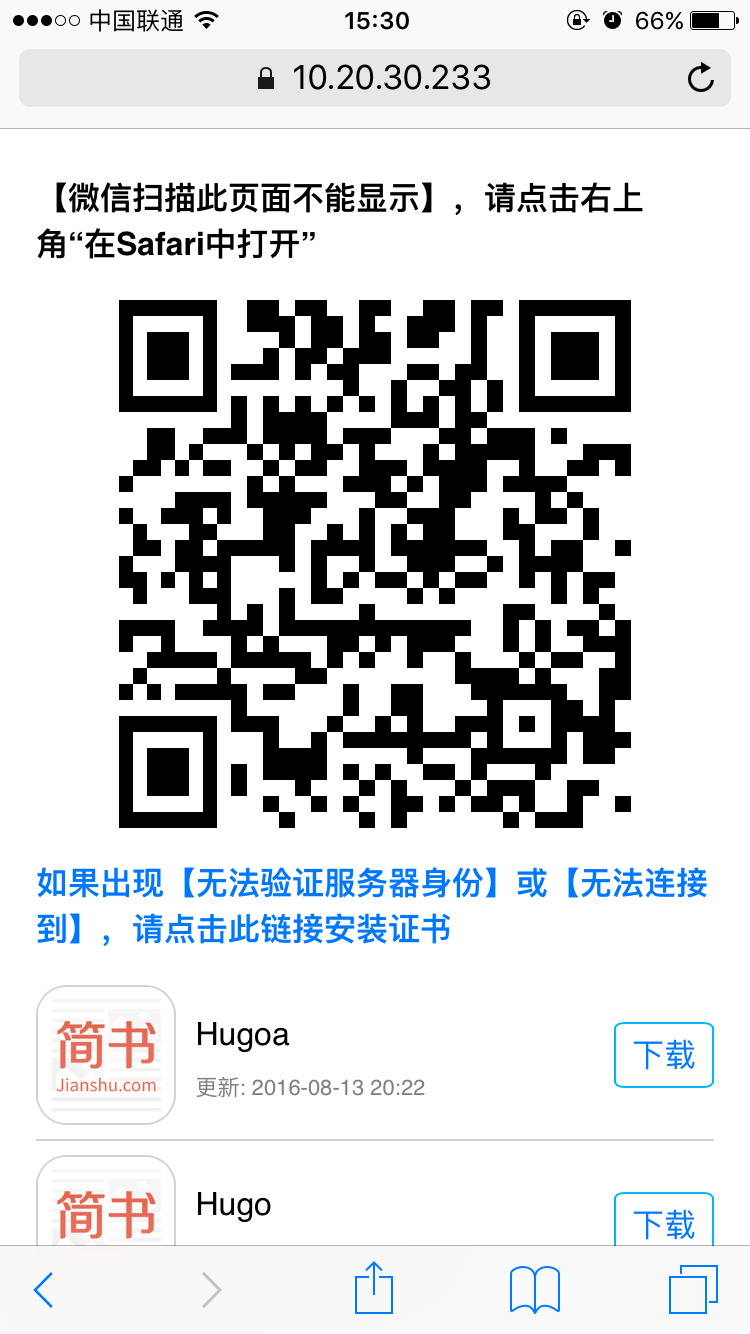
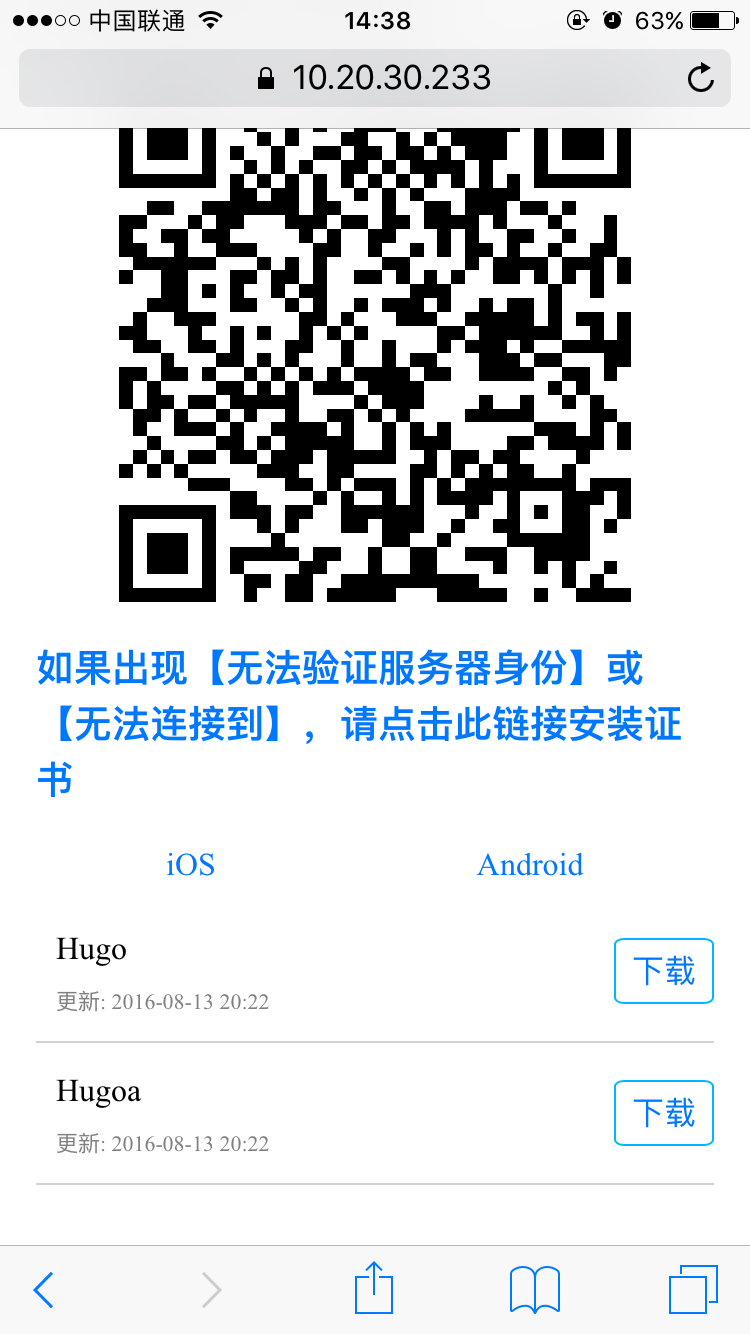
change style

diff --git a/templates/download.html b/templates/download.html
@@ -1,10 +1,10 @@
 <!DOCTYPE html>
 <html>
 <head>
-<title>ios ipa server</title>
+<title>ipapk server</title>
 <meta http-equiv="Content-Type" content="text/html; charset=utf-8" />
 <meta content="telephone=no" name="format-detection" />
-<meta name="viewport" content="width=320,maximum-scale=1,user-scalable=no"/>
+<meta name="viewport" content="width=device-width,maximum-scale=1,user-scalable=no"/>
 <link rel="stylesheet" href="/public/stylesheets/style.css">
 <script src="/public/javascripts/qrcode/jquery.min.js"></script>
 <script type="text/javascript" src="/public/javascripts/qrcode/jquery.qrcode.js"></script>

diff --git a/public/stylesheets/style.css b/public/stylesheets/style.css
@@ -1,6 +1,6 @@
 body {
   padding: 10px;
-  font: 14px "Lucida Grande", Helvetica, Arial, sans-serif;
+  font: 14px;
 }
 
 a {

diff --git a/README.md b/README.md
@@ -45,17 +45,13 @@ $ ipapk-server
 $ ipapk-server path-of-ipa-and-apk
 
 # open https://ip:port/download on your iphone
+# 推荐使用pm2等进程管理运行服务
 ```
-
-### 关于`ipa`打包方法
-* [Ad-hoc](https://developer.apple.com/library/ios/documentation/IDEs/Conceptual/AppDistributionGuide/TestingYouriOSApp/TestingYouriOSApp.html)
-* [企业级分发](https://developer.apple.com/library/ios/documentation/IDEs/Conceptual/AppDistributionGuide/DistributingEnterpriseProgramApps/DistributingEnterpriseProgramApps.html)
-* 普通开发者账号推荐使用[shenzhen](https://github.com/nomad/shenzhen)、[gym](https://github.com/fastlame/gym)打包生成`ipa`
 
 ### 安装app
 * 手机使用浏览器(iOS必须使用Safari)打开`https://ip:port/download`页面
 * 第一次打开会弹出警告`无法验证服务器`，请点击`详细信息`按钮安装证书，按指示一直点击下一步和完成(**强烈推荐使用静态IP，避免每次重新安装证书**)
-* 点击`ipa`链接在线安装`ipa`
+* 点击`下载`在线安装`ipa`
 
 ![simulator screen shot jun 22 2016 2 45 19 pm 2](https://cloud.githubusercontent.com/assets/4977911/16257320/66c5ff7e-388a-11e6-827a-b5708b86e272.png)
 # 效果图
